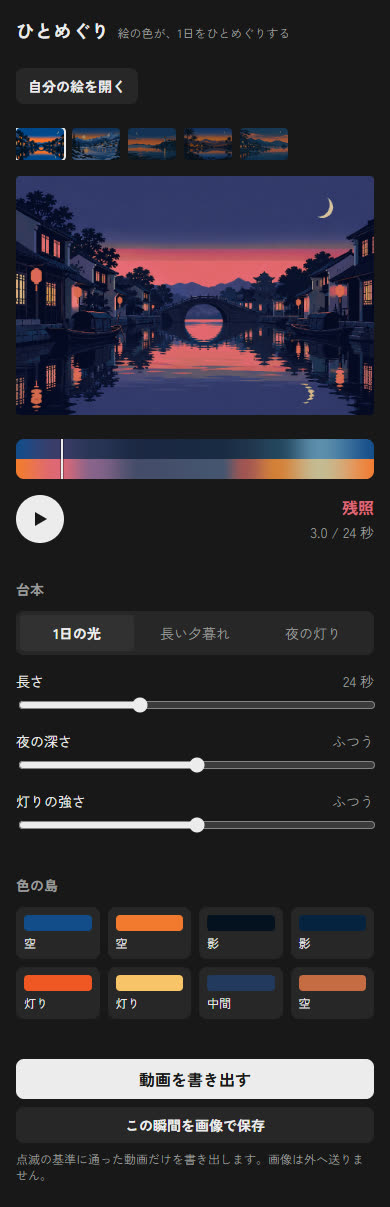
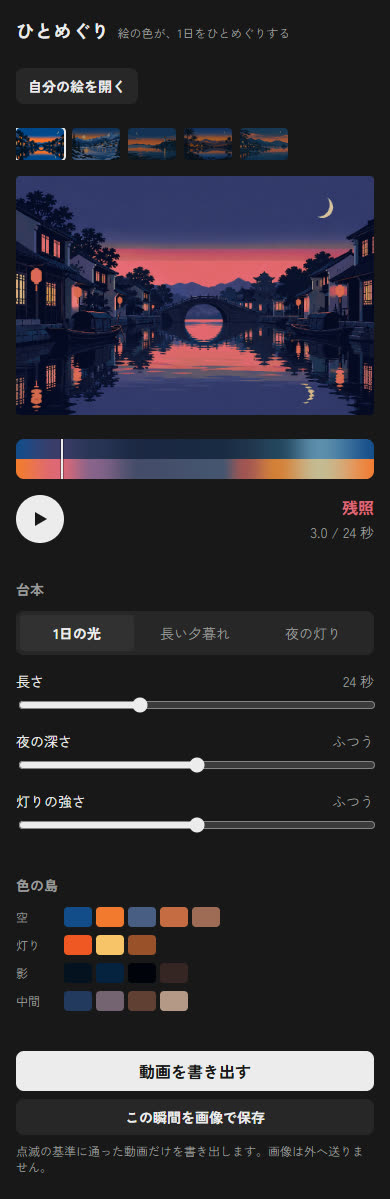
ui.md とモック: 色の島の一覧を役割ごとの行にする（M2 の質問への回答）
16〜19 の島を格子の札にせず、役割の名前と色見本の行にまとめた。すべての島が
モックとほぼ同じ高さに収まり、色を役割に分けるという中心の考えが一覧に見える。
モックは運河の実際の16色と手付けの役割から作り直した。

diff --git a/experiments/ui-mock/index.html b/experiments/ui-mock/index.html
@@ -68,11 +68,14 @@ button,select,input{font:inherit;color:inherit}
 .slider{display:grid;grid-template-columns:1fr auto;gap:var(--s50) var(--s100);margin-top:var(--s200);font-size:14px;line-height:20px}
 .slider output{color:var(--ink-quiet);font-variant-numeric:tabular-nums}
 .slider input{grid-column:1/-1;width:100%;accent-color:var(--ink)}
-.islands{display:grid;grid-template-columns:repeat(4,1fr);gap:var(--s75)}
-.island{border:0;background:var(--control);border-radius:8px;padding:var(--s75);display:flex;flex-direction:column;gap:var(--s50);align-items:flex-start;cursor:pointer;
-  font-size:12px;line-height:16px;transition:background-color 300ms var(--ease)}
-.island:hover{background:var(--control-hover)}
-.island i{display:block;width:100%;height:16px;border-radius:4px}
+.islands{display:flex;flex-direction:column;gap:var(--s75)}
+/* One row per role: the role name, then its islands as swatches, largest first. */
+.role-row{display:grid;grid-template-columns:40px 1fr;gap:var(--s75);align-items:start}
+.role-row>span{font-size:12px;line-height:20px;color:var(--ink-quiet)}
+.role-row>div{display:flex;flex-wrap:wrap;gap:var(--s50)}
+.swatch{width:28px;height:20px;border-radius:4px;border:0;padding:0;cursor:pointer;transition:box-shadow 300ms var(--ease)}
+.swatch:hover{box-shadow:0 0 0 1px var(--ink-quiet)}
+.swatch[aria-pressed="true"]{box-shadow:0 0 0 2px var(--room),0 0 0 4px var(--ink)}
 .actions{display:flex;flex-direction:column;gap:var(--s75)}
 .primary{border:0;border-radius:8px;padding:var(--s75) var(--s100);background:var(--ink);color:var(--room);font-weight:700;cursor:pointer;
   transition:transform 500ms var(--ease)}
@@ -131,14 +134,10 @@ button,select,input{font:inherit;color:inherit}
     <div>
       <h2>色の島</h2>
       <div class="islands">
-        <button class="island"><i style="background:#134c8a"></i>空</button>
-        <button class="island"><i style="background:#f27a2f"></i>空</button>
-        <button class="island"><i style="background:#04111f"></i>影</button>
-        <button class="island"><i style="background:#052240"></i>影</button>
-        <button class="island"><i style="background:#ef5723"></i>灯り</button>
-        <button class="island"><i style="background:#f9c469"></i>灯り</button>
-        <button class="island"><i style="background:#223a5e"></i>中間</button>
-        <button class="island"><i style="background:#c66c44"></i>空</button>
+        <div class="role-row"><span>空</span><div><button class="swatch" style="background:#134c8a" aria-label="空、面積 36.6%"></button><button class="swatch" style="background:#f27a2f" aria-label="空、面積 8.2%"></button><button class="swatch" style="background:#4a5e85" aria-label="空、面積 3.6%"></button><button class="swatch" style="background:#c66c44" aria-label="空、面積 3.1%"></button><button class="swatch" style="background:#9e6b55" aria-label="空、面積 1.1%"></button></div></div>
+        <div class="role-row"><span>灯り</span><div><button class="swatch" style="background:#ef5723" aria-label="灯り、面積 0.9%"></button><button class="swatch" style="background:#f9c469" aria-label="灯り、面積 0.5%"></button><button class="swatch" style="background:#9a512b" aria-label="灯り、面積 0.3%"></button></div></div>
+        <div class="role-row"><span>影</span><div><button class="swatch" style="background:#04111f" aria-label="影、面積 22.6%"></button><button class="swatch" style="background:#052240" aria-label="影、面積 13.3%"></button><button class="swatch" style="background:#01030b" aria-label="影、面積 1.0%"></button><button class="swatch" style="background:#362523" aria-label="影、面積 0.6%"></button></div></div>
+        <div class="role-row"><span>中間</span><div><button class="swatch" style="background:#223a5e" aria-label="中間、面積 4.5%"></button><button class="swatch" style="background:#746371" aria-label="中間、面積 2.9%"></button><button class="swatch" style="background:#604033" aria-label="中間、面積 0.5%"></button><button class="swatch" style="background:#b59887" aria-label="中間、面積 0.1%"></button></div></div>
       </div>
     </div>
     <div class="actions">

diff --git a/experiments/ui-mock/template.html b/experiments/ui-mock/template.html
@@ -68,11 +68,14 @@ button,select,input{font:inherit;color:inherit}
 .slider{display:grid;grid-template-columns:1fr auto;gap:var(--s50) var(--s100);margin-top:var(--s200);font-size:14px;line-height:20px}
 .slider output{color:var(--ink-quiet);font-variant-numeric:tabular-nums}
 .slider input{grid-column:1/-1;width:100%;accent-color:var(--ink)}
-.islands{display:grid;grid-template-columns:repeat(4,1fr);gap:var(--s75)}
-.island{border:0;background:var(--control);border-radius:8px;padding:var(--s75);display:flex;flex-direction:column;gap:var(--s50);align-items:flex-start;cursor:pointer;
-  font-size:12px;line-height:16px;transition:background-color 300ms var(--ease)}
-.island:hover{background:var(--control-hover)}
-.island i{display:block;width:100%;height:16px;border-radius:4px}
+.islands{display:flex;flex-direction:column;gap:var(--s75)}
+/* One row per role: the role name, then its islands as swatches, largest first. */
+.role-row{display:grid;grid-template-columns:40px 1fr;gap:var(--s75);align-items:start}
+.role-row>span{font-size:12px;line-height:20px;color:var(--ink-quiet)}
+.role-row>div{display:flex;flex-wrap:wrap;gap:var(--s50)}
+.swatch{width:28px;height:20px;border-radius:4px;border:0;padding:0;cursor:pointer;transition:box-shadow 300ms var(--ease)}
+.swatch:hover{box-shadow:0 0 0 1px var(--ink-quiet)}
+.swatch[aria-pressed="true"]{box-shadow:0 0 0 2px var(--room),0 0 0 4px var(--ink)}
 .actions{display:flex;flex-direction:column;gap:var(--s75)}
 .primary{border:0;border-radius:8px;padding:var(--s75) var(--s100);background:var(--ink);color:var(--room);font-weight:700;cursor:pointer;
   transition:transform 500ms var(--ease)}

diff --git a/experiments/ui-mock/build.py b/experiments/ui-mock/build.py
@@ -5,11 +5,40 @@ from pathlib import Path
 
 here = Path(__file__).parent
 strip = json.loads((here / 'strip-canal-day.json').read_text(encoding='utf-8'))
-islands = [('#134c8a', '空'), ('#f27a2f', '空'), ('#04111f', '影'), ('#052240', '影'),
-           ('#ef5723', '灯り'), ('#f9c469', '灯り'), ('#223a5e', '中間'), ('#c66c44', '空')]
+# Islands of the canal picture, grouped by role (roles-all.json + the hand-set roles in assets/hero/roles.json).
+ROLE_ORDER = [('sky', '空'), ('water', '水'), ('light', '灯り'), ('celestial', '天体'), ('shadow', '影'), ('middle', '中間')]
+def lab_hex(lab):
+    L, a, b = lab
+    l, m, s_ = [(L + x * a + y * b) ** 3 for x, y in ((0.3963377774, 0.2158037573), (-0.1055613458, -0.0638541728), (-0.0894841775, -1.2914855480))]
+    rgb = [4.0767416621 * l - 3.3077115913 * m + 0.2309699292 * s_, -1.2684380046 * l + 2.6097574011 * m - 0.3413193965 * s_,
+           -0.0041960863 * l - 0.7034186147 * m + 1.7076147010 * s_]
+    enc = lambda c: 12.92 * c if c <= 0.0031308 else 1.055 * max(c, 0) ** (1 / 2.4) - 0.055
+    return '#' + ''.join(f'{min(255, max(0, round(enc(c) * 255))):02x}' for c in rgb)
+def hex_lab(h):
+    lin = lambda c: c / 12.92 if c <= 0.04045 else ((c + 0.055) / 1.055) ** 2.4
+    r, g, b_ = (lin(int(h[i:i + 2], 16) / 255) for i in (1, 3, 5))
+    l, m, s_ = (v ** (1 / 3) for v in (0.4122214708 * r + 0.5363325363 * g + 0.0514459929 * b_,
+                                      0.2119034982 * r + 0.6806995451 * g + 0.1073969566 * b_,
+                                      0.0883024619 * r + 0.2817188376 * g + 0.6299787005 * b_))
+    return [0.2104542553 * l + 0.7936177850 * m - 0.0040720468 * s_, 1.9779984951 * l - 2.4285922050 * m + 0.4505937099 * s_,
+            0.0259040371 * l + 0.7827717662 * m - 0.8086757660 * s_]
+meta = next(m for m in json.loads((here.parent / 'role-script-spike' / 'roles-all.json').read_text(encoding='utf-8')) if m['id'] == 'canal')
+roles = [i['role'] for i in meta['inference']]
+curation = json.loads((here.parent.parent / 'assets' / 'hero' / 'roles.json').read_text(encoding='utf-8'))
+for entry in curation['images']['canal']['colors']:
+    lab = hex_lab(entry['hex'])
+    k = min(range(len(meta['palette'])), key=lambda i: sum((meta['palette'][i][j] - lab[j]) ** 2 for j in range(3)))
+    roles[k] = entry['role']
+total = sum(meta['counts'])
+rows = []
+for role, name in ROLE_ORDER:
+    ks = sorted((k for k in range(len(roles)) if roles[k] == role), key=lambda k: -meta['counts'][k])
+    if not ks:
+        continue
+    swatches = ''.join(f'<button class="swatch" style="background:{lab_hex(meta["palette"][k])}" aria-label="{name}、面積 {meta["counts"][k] / total * 100:.1f}%"></button>' for k in ks)
+    rows.append(f'<div class="role-row"><span>{name}</span><div>{swatches}</div></div>')
 html = (here / 'template.html').read_text(encoding='utf-8')
 html = html.replace('__UPPER__', strip['upper']).replace('__LOWER__', strip['lower'])
-html = html.replace('__ISLANDS__', '\n        '.join(
-    f'<button class="island"><i style="background:{h}"></i>{r}</button>' for h, r in islands))
+html = html.replace('__ISLANDS__', '\n        '.join(rows))
 (here / 'index.html').write_text(html, encoding='utf-8', newline='\n')
 print('written', len(html))

diff --git a/docs/design/ui.md b/docs/design/ui.md
@@ -76,6 +76,14 @@
   - 書き出しに非対応（書き出しの区画）: 「このブラウザでは動画を書き出せません。Chrome・Edge・Firefox（デスクトップ）・Safari 16.4 以降で開いてください。静止画の保存はこのまま使えます。」
 - 読み込み中（B9）: 回る印は使わない。絵の場所に、絵と同じ縦横比の `#1F1F1F` の面を置き、帯の場所にも同じ面を置く（形をそろえた骨組み）。2.4 秒周期のごく弱い明滅（明るさの差 3% 以内）。動きを減らす設定では静止。文の行に「色を調べています」。
 
+### 色の島の一覧（役割ごとの行）
+
+- 島は 16 前後（位置で分けると 19 以上）あるので、札を格子に並べず、**役割ごとの行**にまとめる。「すべて表示」で畳む形にはしない（すべての島が一目で見えることを優先する）。
+- 1行 = 左に役割の名前（12/16px、`#9B9B9B`、幅 40px）＋ 右にその役割に属する島の色見本。色見本は 28×20px、角丸 4px、間 4px、面積の大きい順に並べ、収まらなければ折り返す。
+- 行の順は 空・水・灯り・天体・影・中間。島が1つも無い役割の行は出さない。
+- 色見本は `button`。`aria-label` は「空、面積 37%」、位置で分けた島は「空（上）、面積 21%」。選んだ色見本は `#ECECEC` の 2px の輪（2px 離す）。hover は 1px の `#9B9B9B` の輪。
+- 役割を付け替えると、色見本がその役割の行へ移る。この道具の中心の考え（色を役割に分けて動かす）が、一覧そのものに見えるようにするため。
+
 ### 島を選んだ後
 
 - 島の札を押すと選ぶ（`aria-pressed`）。絵の上では、選んだ島の場所を残し、ほかを暗くする（明るさ 35% に落とす）。もう一度押すと外れる。
